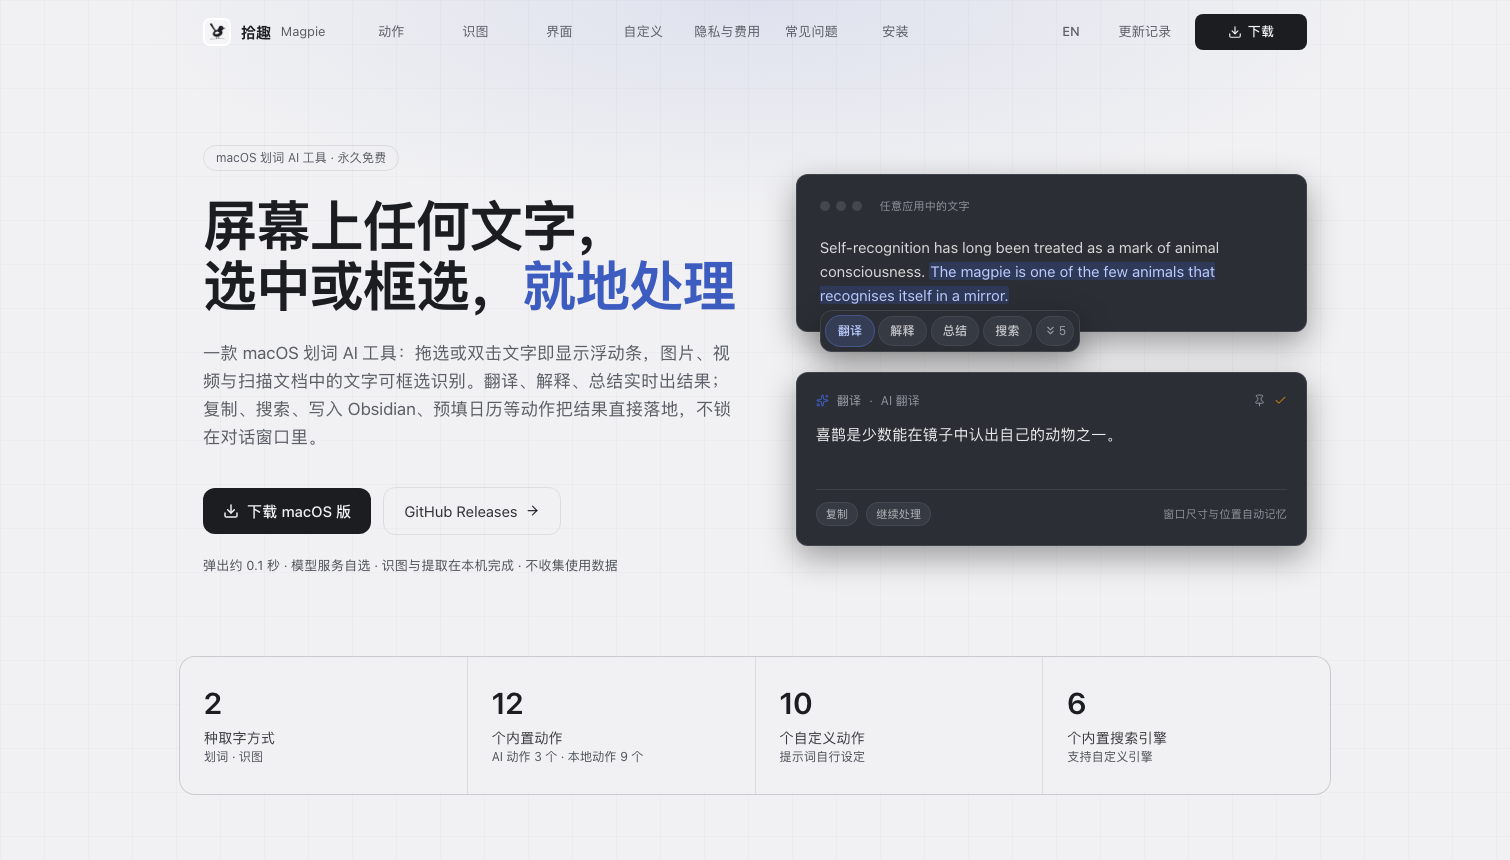
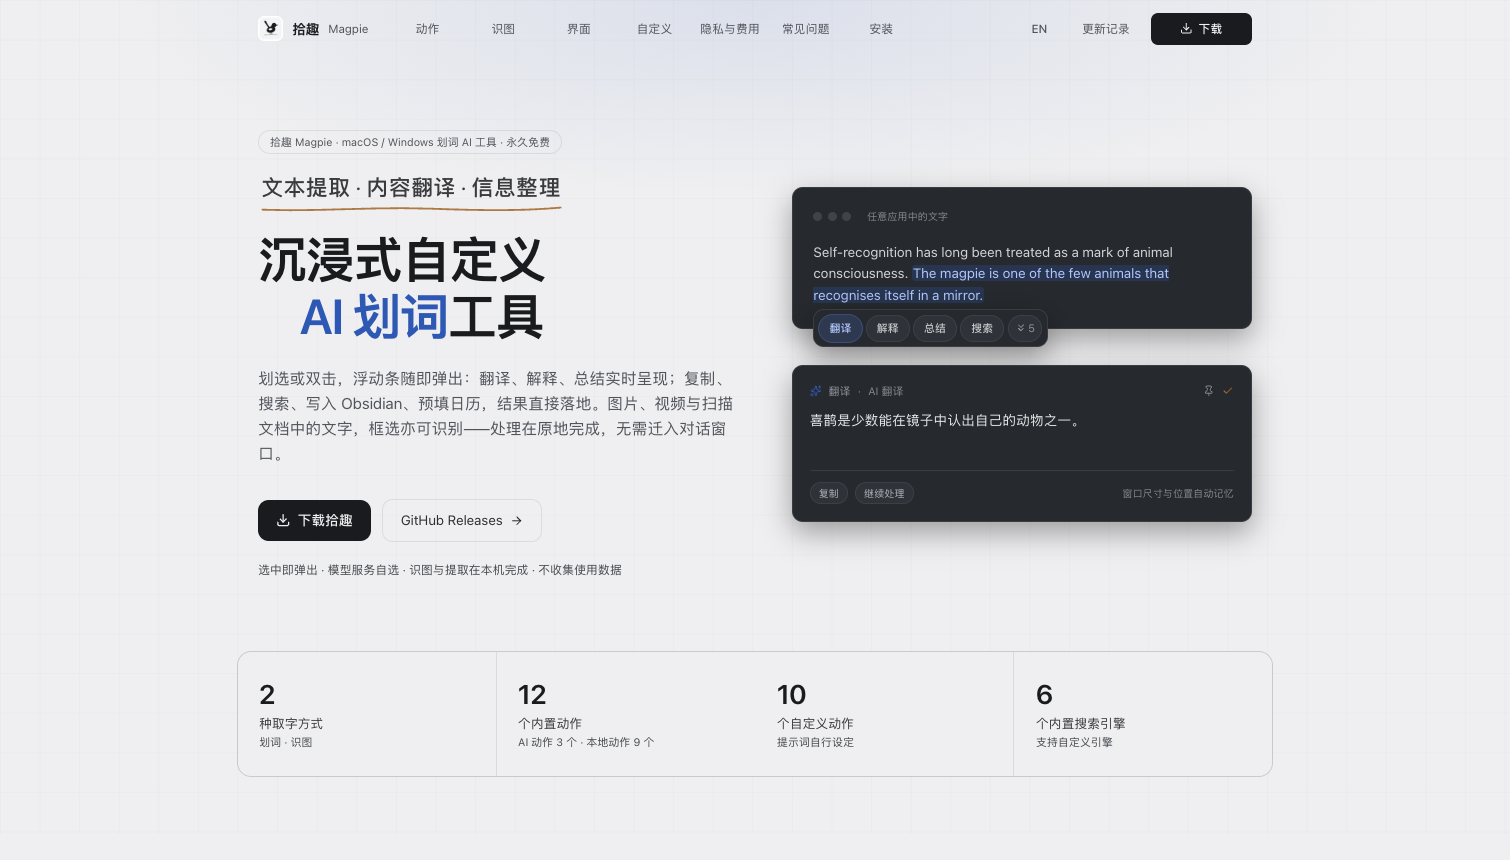
release v0.1.15

diff --git a/web/src/i18n.tsx b/web/src/i18n.tsx
@@ -19,7 +19,7 @@ const zh = {
     langBtn: "EN",
   },
   hero: {
-    badge: "macOS / Windows 划词 AI 工具 · 永久免费",
+    badge: "拾趣 Magpie · macOS / Windows 划词 AI 工具 · 永久免费",
     h1a: "文本提取 · 内容翻译 · 信息整理",
     h1b: "沉浸式自定义",
     h1c: "AI 划词",
@@ -280,7 +280,7 @@ const en: Dict = {
     langBtn: "中文",
   },
   hero: {
-    badge: "AI text-selection tool for macOS & Windows · Free forever",
+    badge: "Magpie · AI text-selection tool for macOS & Windows · Free forever",
     h1a: "Text extraction, content translation, and organization",
     h1b: "an immersive, customizable ",
     h1c: "AI selection",
